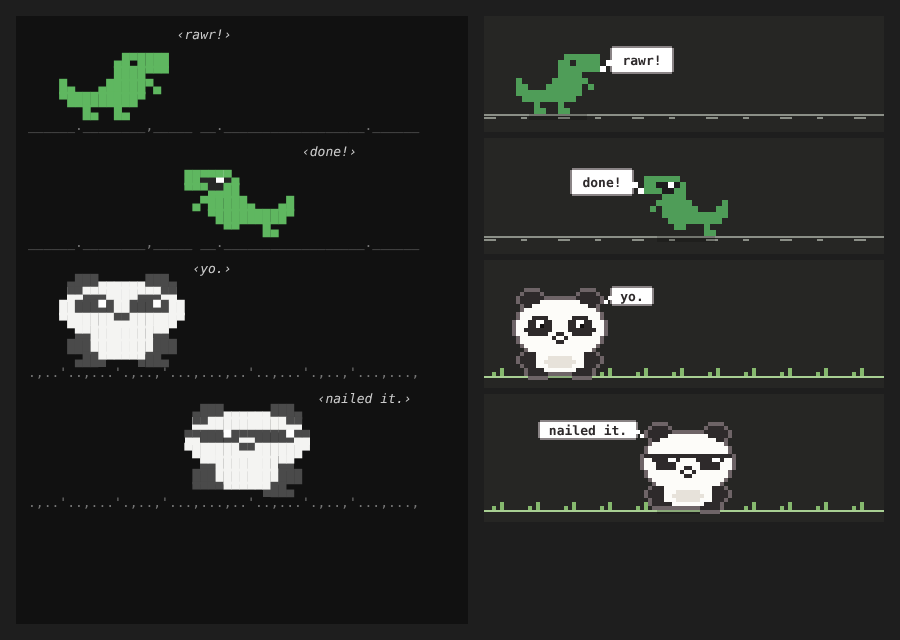
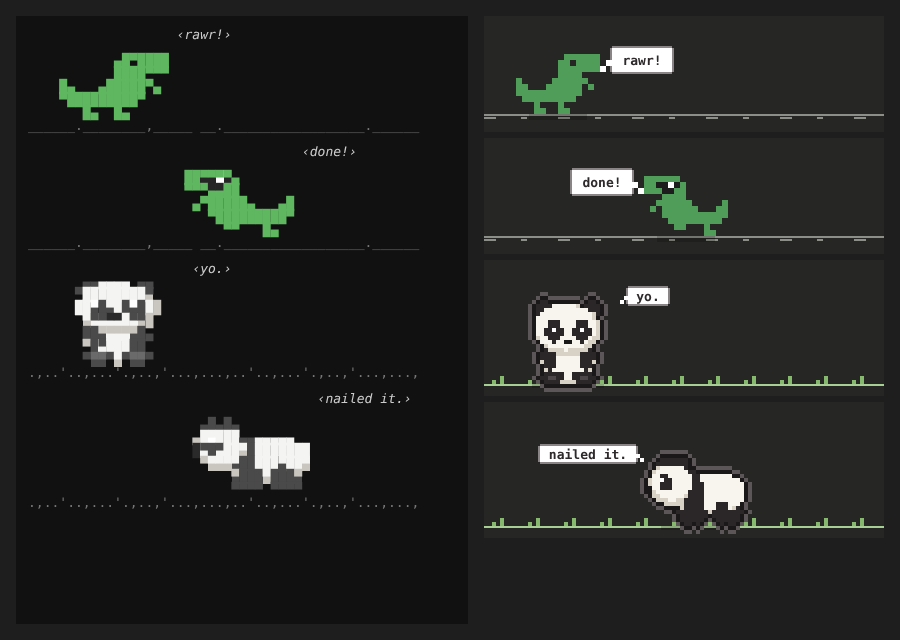
buddy: chunkier panda with sitting, walking and sleeping poses
The panda is now built from rounded shapes in three poses: sitting up
(idle, munching, shades on), walking on all fours, and lying flat asleep.

Claude-Session: https://claude.ai/code/session_01FB6BJrRqbn2oSwVncdYdDf

diff --git a/plugins/buddy/hooks/panda.ts b/plugins/buddy/hooks/panda.ts
@@ -1,143 +1,192 @@
-import type { Legs, Scene } from '../types'
-import { bubbleSvg, halfBlocks, mirror, outline, pick, pixels, put, shadowSvg, svgOpen } from './shared'
+import type { Scene } from '../types'
+import { bubbleSvg, halfBlocks, mirror, outline, pick, pixels, shadowSvg, svgOpen } from './shared'
 import type { Character } from './shared'
 
-// The panda: a compact sprite for the terminal and a bigger one for the
-// desktop, so its eyes have room.
+// The panda, in three chunky poses: sitting up (idle, munching, shades on,
+// jumping), walking on all fours, and lying flat asleep. Each pose is a list
+// of rounded shapes painted in order onto a pixel grid, so the same panda
+// comes out at desktop size and, scaled down, at terminal size.
 
-// ---------------------------------------------------------------- terminal sprite
+// Pixels: K black fur, k foot pad, W white fur, S white fur in shadow,
+// w eye glint, N nose and mouth, L closed eye, B shades, R open mouth,
+// G bamboo, g bamboo leaf, O outline (added around the whole sprite)
+type Shape =
+  | { c: string; e: [cx: number, cy: number, rx: number, ry: number] }
+  | { c: string; r: [x: number, y: number, w: number, h: number] }
+  | { c: string; p: [x: number, y: number][] }
 
-// '.' empty, K black fur, W white fur, w eye shine, G bamboo
-const W = 16
-const H = 14
+type Pose = { w: number; h: number; shapes: Shape[] }
 
-const HEAD = [
-  '..KKK......KKK..',
-  '.KKKKWWWWWWKKKK.',
-  '.KKWWWWWWWWWWKK.',
-  '.WWKKKWWWWKKKWW.',
-  'WWKKKwKWWKKKwKWW',
-  'WWKKKKKWWKKKKKWW',
-  'WWWWWWWKKWWWWWWW',
-  '.WWWWWWWWWWWWWW.',
-  '..WWWWWWWWWWWW..',
+const ell = (c: string, cx: number, cy: number, rx: number, ry: number): Shape => ({ c, e: [cx, cy, rx, ry] })
+const rect = (c: string, x: number, y: number, w: number, h: number): Shape => ({ c, r: [x, y, w, h] })
+const px = (c: string, ...p: [number, number][]): Shape => ({ c, p })
+
+// White fur with a soft shadow along its lower right edge
+const furBall = (cx: number, cy: number, rx: number, ry: number): Shape[] => [
+  ell('S', cx, cy, rx, ry),
+  ell('W', cx - rx * 0.08, cy - ry * 0.1, rx * 0.92, ry * 0.9),
 ]
 
-const BODY = ['..KKWWWWWWWWKK..', '.KKKWWWWWWWWKKK.', '.KKKWWWWWWWWKKK.']
-
-const FEET: Record<Legs, string[]> = {
-  stand: ['...KKWWWWWWKK...', '..KKKK....KKKK..'],
-  a: ['...KKWWWWWWKKKK.', '..KKKK..........'],
-  b: ['.KKKKWWWWWWKK...', '..........KKKK..'],
-  sit: ['KKKKWWWWWWWWKKKK', '................'],
-}
-
-function sprite(s: Scene): string[] {
-  const rows = [...HEAD, ...BODY, ...FEET[s.legs]]
-  if (s.isAsleep || s.isBlinking) {
-    rows[3] = '.WWWWWWWWWWWWWW.'
-    rows[4] = 'WWKKKKKWWKKKKKWW'
-    rows[5] = 'WWWWWWWWWWWWWWWW'
-  } else if (s.isHappy) {
+function sitting(s: Scene): Pose {
+  const shapes: Shape[] = [
+    ...furBall(12, 16, 6.6, 5.8),
+    // The black band over the shoulders, then arms and legs tucked in close
+    ell('K', 12, 12, 6.6, 2),
+    ell('K', 7.4, 15.2, 2, 3.4),
+    ...(s.isMunching ? [] : [ell('K', 16.6, 15.2, 2, 3.4)]),
+    ell('K', 8.2, 20.3, 2.9, 1.8),
+    ell('K', 15.8, 20.3, 2.9, 1.8),
+    ell('k', 8.2, 20.5, 1.3, 0.8),
+    ell('k', 15.8, 20.5, 1.3, 0.8),
+    // Round ears, set in from the corners
+    ell('K', 6.2, 3.6, 2.4, 2.4),
+    ell('K', 17.8, 3.6, 2.4, 2.4),
+    ...furBall(12, 8.4, 8.4, 6.4),
+    // Eye patches
+    ell('K', 8.5, 8.8, 2.2, 2.7),
+    ell('K', 15.5, 8.8, 2.2, 2.7),
+    px('N', [11, 11], [12, 11]),
+  ]
+  if (s.isAsleep || s.isBlinking) shapes.push(px('L', [8, 9], [9, 9], [15, 9], [16, 9]))
+  else if (s.isHappy) {
     // Shades on
-    rows[3] = '.WWWWWWWWWWWWWW.'
-    rows[4] = 'KKwKKKKKKKwKKKKK'
-    rows[5] = 'WWKKKKKWWKKKKKWW'
-  }
+    shapes.push(rect('B', 5, 7, 6, 3), rect('B', 13, 7, 6, 3), rect('B', 11, 7, 2, 1), rect('B', 4, 7, 1, 1), rect('B', 19, 7, 1, 1))
+    shapes.push(px('w', [6, 7], [14, 7]))
+  } else shapes.push(px('w', [8, 8], [15, 8]))
+  if (s.chew) shapes.push(px('R', [11, 12], [12, 12]))
   if (s.isMunching) {
-    for (let r = 6; r < H - 1; r++) put(rows, r, 13, 'G')
-    put(rows, 5, 14, 'G')
-    put(rows, 4, 15, 'G')
+    // A stalk of bamboo held in its paw, leaves at the top
+    shapes.push(rect('G', 18, 2, 2, 19), px('g', [18, 7], [19, 13]))
+    shapes.push(ell('g', 21.2, 2.6, 2.6, 1), ell('g', 16.4, 3.6, 2.2, 0.9))
+    shapes.push(ell('K', 17, 13.2, 2.6, 2.3))
   }
-  return mirror(rows, s.dir)
+  return { w: 24, h: 22, shapes }
 }
 
-// ---------------------------------------------------------------- desktop sprite
-
-// K black, W white, S belly shade, w white of the eye, E pupil,
-// L closed-eye line, R open mouth, G bamboo, g bamboo leaf
-const BIG_W = 22
-const BIG_H = 21
-
-const BIG_HEAD = [
-  '..KKKK..........KKKK..',
-  '.KKKKKK........KKKKKK.',
-  '.KKKKKWWWWWWWWWWKKKKK.',
-  '..KKWWWWWWWWWWWWWWKK..',
-  '..WWWWWWWWWWWWWWWWWW..',
-  '.WWWWWWWWWWWWWWWWWWWW.',
-  '.WWWKKKKWWWWWWKKKKWWW.',
-  'WWWKKwwKKWWWWKKwwKKWWW',
-  'WWWKKwEKKWWWWKKwEKKWWW',
-  'WWKKKKKKKWWWWKKKKKKKWW',
-  'WWWKKKKKWWKKWWKKKKKWWW',
-  '.WWWWWWWWKWWKWWWWWWWW.',
-  '.WWWWWWWWWKKWWWWWWWWW.',
-  '..WWWWWWWWWWWWWWWWWW..',
-  '...WWWWWWWWWWWWWWWW...',
-]
-
-const BIG_BODY = [
-  '..KKKWWWWWWWWWWWWKKK..',
-  '.KKKKWWWSSSSSSWWWKKKK.',
-  '.KKKKWWSSSSSSSSWWKKKK.',
-  '..KKKWWWSSSSSSWWWKKK..',
-]
-
-const BIG_FEET: Record<Legs, string[]> = {
-  stand: ['...KKKKWWWWWWWWKKKK...', '...KKKKK......KKKKK...'],
-  a: ['...KKKKWWWWWWWWKKKKK..', '...KKKKK..............'],
-  b: ['..KKKKKWWWWWWWWKKKK...', '..............KKKKK...'],
-  sit: ['KKKKKWWWWWWWWWWWWKKKKK', '......................'],
+function walking(s: Scene): Pose {
+  // Legs swap between two strides
+  const stride = s.legs === 'b' ? 1.5 : 0
+  const shapes: Shape[] = [
+    ell('K', 5 + stride, 14.5, 2.6, 3.3),
+    ell('K', 16 - stride, 14.5, 2.6, 3.3),
+    ...furBall(11, 10, 9.5, 5.5),
+    // The far legs peek out behind
+    ell('K', 7.5 - stride, 14.8, 2.2, 2.9),
+    ell('K', 13.5 + stride, 14.8, 2.2, 2.9),
+    // Shoulder band running down into the front leg
+    ell('K', 15, 9.5, 2.9, 5.4),
+    ell('K', 18.2, 2.8, 2.2, 2.2),
+    ell('K', 21.6, 2.5, 2, 2),
+    ...furBall(20.5, 7.6, 5.4, 5),
+    ell('K', 21.8, 7.2, 1.7, 2.1),
+    px('N', [25, 8], [25, 9]),
+  ]
+  if (!s.isBlinking) shapes.push(px('w', [22, 6]))
+  return { w: 26, h: 18, shapes }
 }
 
-function bigSprite(s: Scene): string[] {
-  const rows = [...BIG_HEAD, ...BIG_BODY, ...BIG_FEET[s.legs]]
-  if (s.isAsleep || s.isBlinking) {
-    rows[7] = 'WWWKKKKKKWWWWKKKKKKWWW'
-    rows[8] = 'WWWKLLLLKWWWWKLLLLKWWW'
-  } else if (s.isHappy) {
-    // Shades on
-    rows[6] = '.WWWWWWWWWWWWWWWWWWWW.'
-    rows[7] = 'KKKKKKKKKKKKKKKKKKKKKK'
-    rows[8] = 'WWKwwKKKKWWWWKwwKKKKWW'
-    rows[9] = 'WWWKKKKKWWWWWWKKKKKWWW'
+function sleeping(): Pose {
+  return {
+    w: 26,
+    h: 13,
+    shapes: [
+      ell('K', 3.6, 10, 2.7, 2.4),
+      ...furBall(10, 9, 9.5, 3.9),
+      ell('K', 13.4, 8.6, 2.3, 4),
+      ell('K', 13.8, 2.8, 2.3, 2.3),
+      ell('K', 22.2, 2.8, 2.3, 2.3),
+      ...furBall(18, 7, 6.6, 5.2),
+      ell('K', 15.5, 7.2, 2.1, 1.8),
+      ell('K', 20.5, 7.2, 2.1, 1.8),
+      px('L', [15, 7], [16, 7], [20, 7], [21, 7]),
+      px('N', [17, 9], [18, 9]),
+      // Front paws tucked under the chin
+      ell('K', 18, 11.6, 4.6, 1.6),
+    ],
   }
-  if (s.chew) {
-    put(rows, 12, 10, 'R')
-    put(rows, 12, 11, 'R')
-  }
-  if (s.isMunching) {
-    for (let r = 8; r < BIG_H - 1; r++) {
-      put(rows, r, 19, 'G')
-      put(rows, r, 20, 'G')
+}
+
+function pose(s: Scene): Pose {
+  if (s.isAsleep) return sleeping()
+  if (s.air === 0 && (s.legs === 'a' || s.legs === 'b')) return walking(s)
+  return sitting(s)
+}
+
+// Paint the shapes onto a grid, scaled, and optionally ring it with outline
+function paint(p: Pose, scale: number, withOutline: boolean): string[] {
+  const W = Math.ceil(p.w * scale)
+  const H = Math.ceil(p.h * scale)
+  const grid = Array.from({ length: H }, () => Array<string>(W).fill('.'))
+  for (const sh of p.shapes) {
+    if ('e' in sh) {
+      const [cx, cy, rx, ry] = sh.e.map(v => v * scale) as [number, number, number, number]
+      for (let y = 0; y < H; y++)
+        for (let x = 0; x < W; x++) {
+          const dx = (x + 0.5 - cx) / rx
+          const dy = (y + 0.5 - cy) / ry
+          if (dx * dx + dy * dy <= 1) grid[y]![x] = sh.c
+        }
+    } else if ('r' in sh) {
+      const [x0, y0, w, h] = sh.r.map(v => Math.round(v * scale)) as [number, number, number, number]
+      for (let y = y0; y < y0 + Math.max(1, h); y++)
+        for (let x = x0; x < x0 + Math.max(1, w); x++) if (grid[y]?.[x] !== undefined) grid[y]![x] = sh.c
+    } else {
+      for (const [x, y] of sh.p) {
+        const gx = Math.floor(x * scale)
+        const gy = Math.floor(y * scale)
+        if (grid[gy]?.[gx] !== undefined) grid[gy]![gx] = sh.c
+      }
     }
-    put(rows, 12, 19, 'g')
-    put(rows, 7, 20, 'g')
-    put(rows, 6, 21, 'g')
-    put(rows, 7, 18, 'g')
-    put(rows, 6, 17, 'g')
-    // Paws wrapped around the stalk
-    for (const c of [16, 17, 18, 19, 20, 21]) put(rows, 15, c, 'K')
-    for (const c of [17, 18, 19, 20, 21]) put(rows, 16, c, 'K')
   }
-  return mirror(rows, s.dir)
+  const rows = grid.map(r => r.join(''))
+  if (!withOutline) return rows
+  // A one-pixel dark outline around the whole silhouette
+  const filled = (y: number, x: number) => (rows[y]?.[x] ?? '.') !== '.'
+  const out: string[] = []
+  for (let y = -1; y <= H; y++) {
+    let line = ''
+    for (let x = -1; x <= W; x++) {
+      if (filled(y, x)) line += rows[y]![x]
+      else line += filled(y - 1, x) || filled(y + 1, x) || filled(y, x - 1) || filled(y, x + 1) ? 'O' : '.'
+    }
+    out.push(line)
+  }
+  return out
 }
 
 // ---------------------------------------------------------------- drawing
 
-const TERM = { K: '#4a4a4a', W: '#f4f4f2', w: '#ffffff', G: '#7bc96f' }
+const TERM_SCALE = 0.62
+const TERM_W = 16
+const TERM_ROWS = 16 // pixel rows, two per text row
+
+const TERM = {
+  K: '#4a4a4a',
+  k: '#6a6a6a',
+  W: '#f4f4f2',
+  S: '#c9c6bf',
+  w: '#ffffff',
+  N: '#2a2a2a',
+  L: '#9a9a9a',
+  B: '#1c1c1c',
+  R: '#a04a5a',
+  G: '#7bc96f',
+  g: '#a5dc8f',
+}
 
 const SVG = {
-  K: '#2e2a2b',
-  W: '#fdfcf9',
-  S: '#e7e2da',
+  O: '#1b1819',
+  K: '#2b2729',
+  k: '#4d4649',
+  W: '#f8f5ee',
+  S: '#d8d1c5',
   w: '#ffffff',
-  E: '#120f10',
-  L: '#9a9093',
-  R: '#4a2f33',
-  G: '#6fbf5c',
-  g: '#9bd67f',
+  N: '#1b1819',
+  L: '#8f8689',
+  B: '#0f0d0e',
+  R: '#9c3f52',
+  G: '#5fae45',
+  g: '#93d07a',
 }
 
 const GRASS = ".,..'..,...'.,..,'...,.."
@@ -145,6 +194,7 @@ const GRASS = ".,..'..,...'.,..,'...,.."
 const PX = 4
 const CELL = 8
 const LIFT = 5
+const TALLEST = 24 // the sitting pose, with its outline
 
 function react(text: string): string {
   const t = text.toLowerCase()
@@ -159,28 +209,30 @@ function react(text: string): string {
 }
 
 export const panda: Character = {
-  width: W,
+  width: TERM_W,
   canMunch: true,
 
   terminal(s, cols) {
     let ground = ''
     for (let i = 0; i < cols; i++) ground += GRASS[i % GRASS.length]
-    // The terminal jumps half as high, to keep the band short
+    const sp = mirror(paint(pose(s), TERM_SCALE, false), s.dir)
+    // Feet on the bottom row, lifted while jumping as far as the band allows
+    const lift = Math.min(s.air, TERM_ROWS - sp.length)
     return {
-      rows: halfBlocks(sprite(s), 2 - Math.round(s.air / 2), W, H + 2, TERM),
+      rows: halfBlocks(sp, TERM_ROWS - sp.length - lift, TERM_W, TERM_ROWS, TERM),
       ground,
       groundColor: 'green',
     }
   },
 
   svg(s, cols) {
-    const sp = bigSprite(s)
+    const sp = mirror(paint(pose(s), 1, true), s.dir)
     const w = cols * CELL
-    const size = BIG_W * PX
-    const groundY = BIG_H * PX + 4 * LIFT + 3 * PX
+    const size = (sp[0]?.length ?? 0) * PX
+    const groundY = TALLEST * PX + 4 * LIFT + 2 * PX
     const h = groundY + 3 * PX
     const ox = s.x * CELL
-    const oy = groundY - BIG_H * PX - s.air * LIFT
+    const oy = groundY - sp.length * PX + PX - s.air * LIFT
 
     const grass: string[] = []
     for (let i = 0; i < w; i += 9 * PX) {
@@ -196,7 +248,8 @@ export const panda: Character = {
       `<rect x="0" y="${groundY}" width="${w}" height="${PX * 0.6}" fill="#a8cf93"/>` +
       grass.join('') +
       shadowSvg(s, ox, size, groundY, PX) +
-      outline(sp, ox, oy, PX, '#6e6467') +
+      // A faint light rim so the dark outline still reads on a dark background
+      outline(sp, ox, oy, PX, '#5d5658') +
       pixels(sp, ox, oy, PX, SVG) +
       bubbleSvg(s, ox, oy, size, w, PX) +
       `</svg>`
